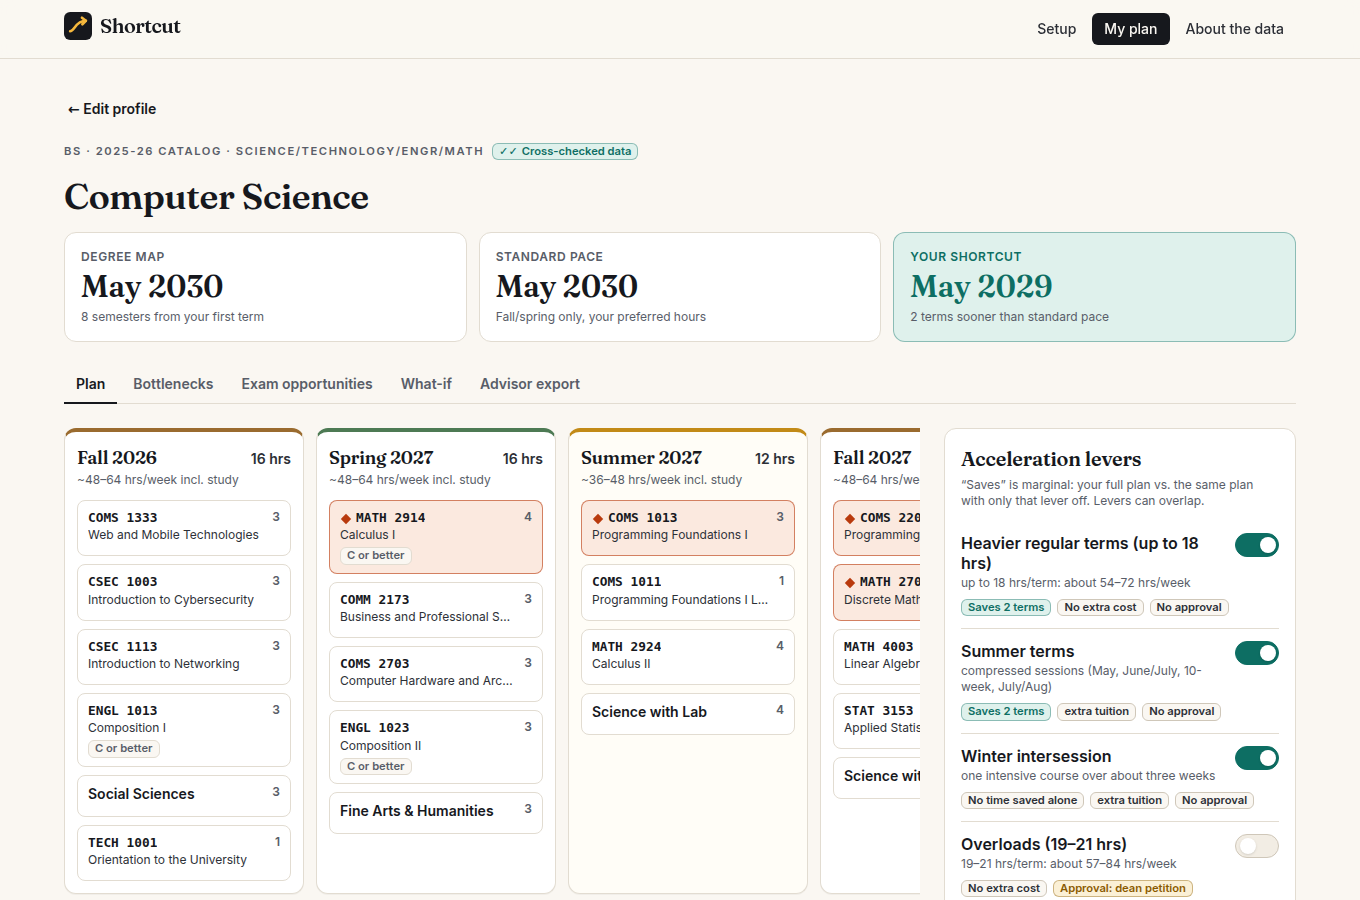
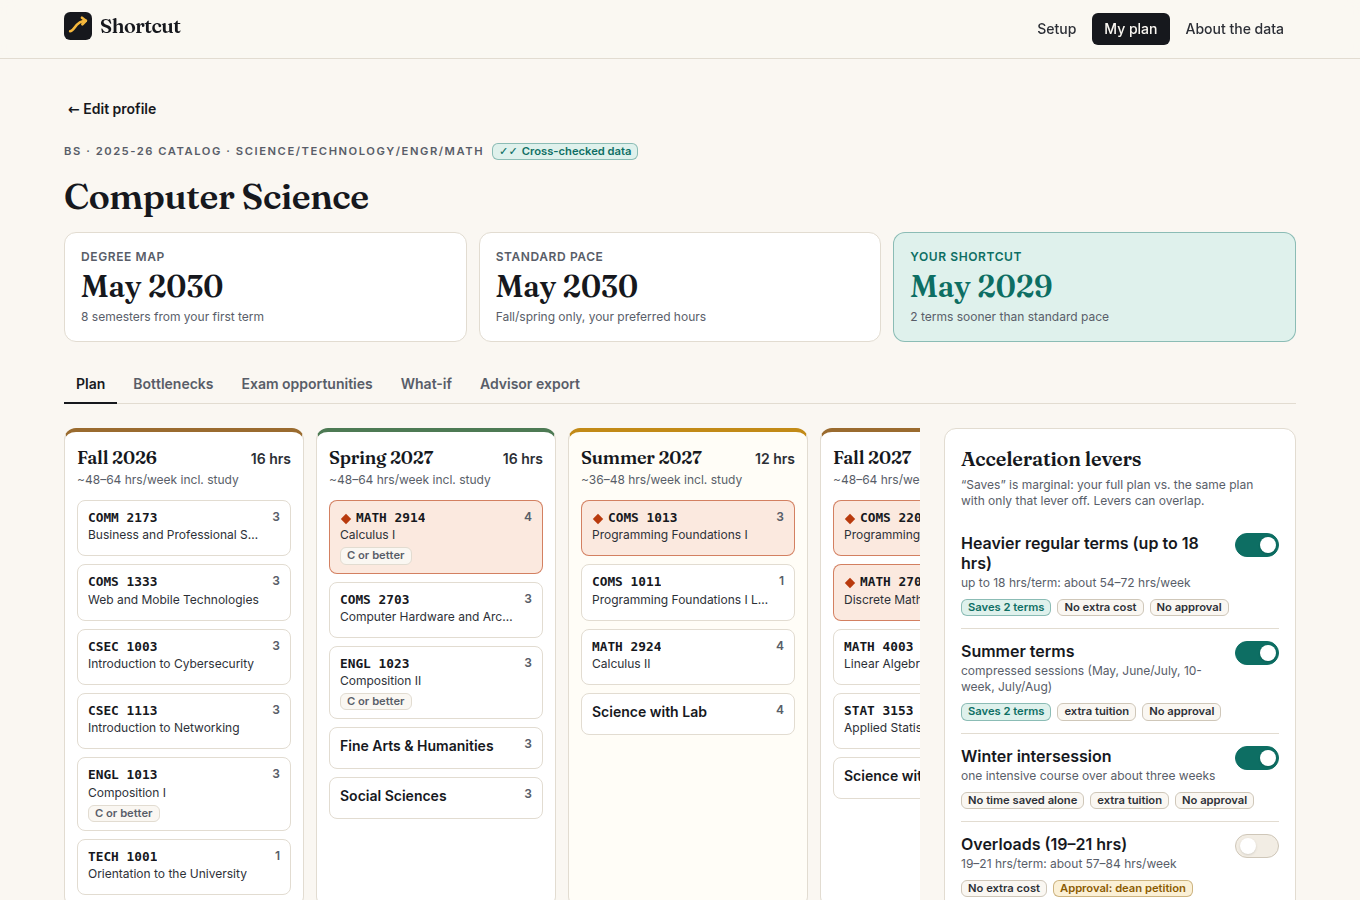
docs(m8): refresh screenshots and measured numbers after QA fixes
Claude-Session: https://claude.ai/code/session_01SjQgBJJT2PyQvWB6Lchb4D

diff --git a/README.md b/README.md
@@ -103,7 +103,7 @@ data/raw  ── pipeline ──▶  data/processed/*.json  ──▶  FastAPI (
 - The plan state lives in the URL (`?s=`, shareable) and in localStorage.
 - It's keyboard navigable, targets WCAG AA contrast, and never uses color as the only signal: critical courses carry an icon and text too.
 
-**Performance.** A full CS plan with lever attribution across all 64 lever combinations takes a median 0.85 s and p95 2.43 s. The PRD target is p95 under 3 s.
+**Performance.** A full CS plan with lever attribution, measured over all 64 lever combinations in the build container, takes a median 0.8 s and p95 2.2 s. The PRD target is p95 under 3 s.
 
 ## Data and trust
 
@@ -140,5 +140,5 @@ The tiers mean:
 
 > Built **Shortcut**, a graduation planner for Arkansas Tech students.
 > - A Python pipeline turns 82 degree-map PDFs and 836 Banner course records into 74 validated bachelor's programs (5 cross-checked row by row against the source PDFs, spanning all 4 colleges, 78% auto-imported or better).
-> - An OR-Tools CP-SAT scheduler returns the fastest realistic term-by-term plan, prices each acceleration option in terms saved, and names the critical prerequisite chain, at p95 2.4 s.
-> - Stack: FastAPI, React/TypeScript, 91 automated tests, Docker, and GitHub Actions CI.
+> - An OR-Tools CP-SAT scheduler returns the fastest realistic term-by-term plan, prices each acceleration option in terms saved, and names the critical prerequisite chain, at p95 2.2 s.
+> - Stack: FastAPI, React/TypeScript, 95 automated tests, Docker, and GitHub Actions CI.
